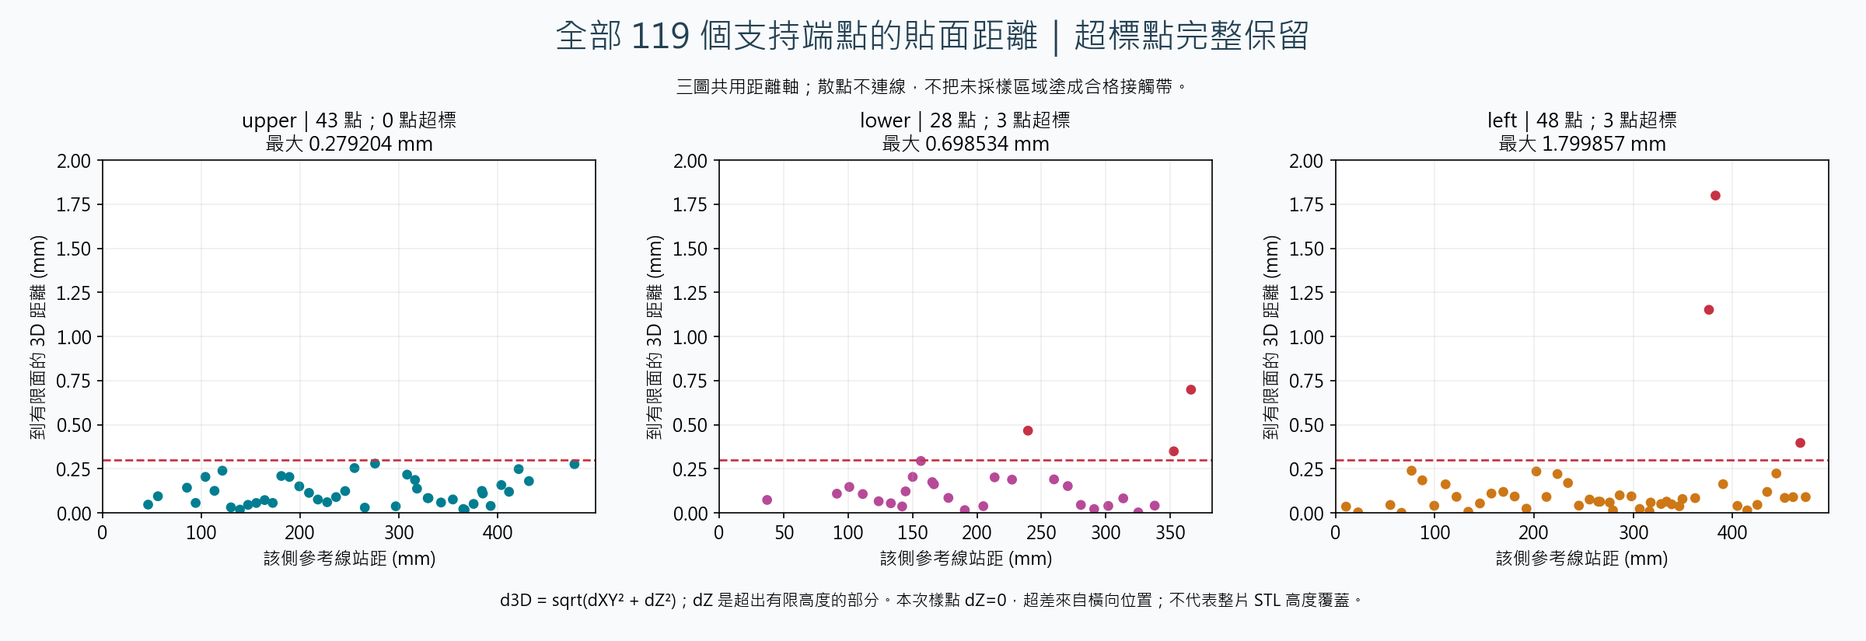
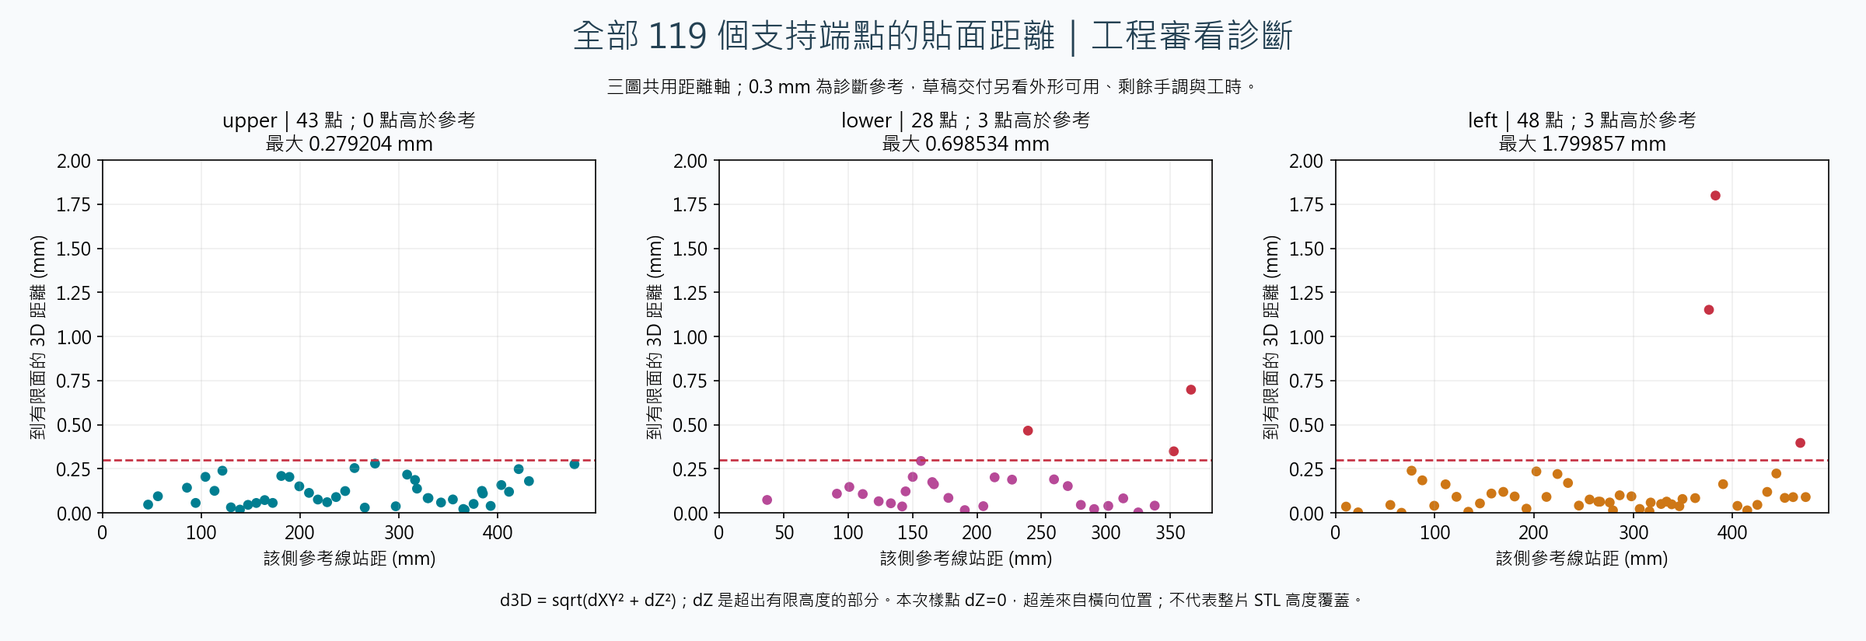
Prioritize engineering usefulness and manual effort in surface-draft delivery

diff --git a/tools/render_surface_contact.py b/tools/render_surface_contact.py
@@ -174,7 +174,7 @@ def main():
     fig.legend(handles=handles, loc="lower center", bbox_to_anchor=(.5, .065), ncol=5, frameon=False, fontsize=10)
     fig.suptitle("從掃描側線到貼面草稿｜原件與三側有限面疊合", fontsize=23, color="#244153", y=.96)
     fig.text(.5, .885, "原始孔洞／板金／焊道保持；彩面為同一 VSTA 已建面的計畫，Z = -50 … +50 mm。", ha="center", fontsize=12)
-    fig.text(.5, .025, "數據重繪，非 CATIA 螢幕擷取；同一座標、等尺度、無 Z 誇大。119 點僅為支持子域，製造貼合尚未通過。", ha="center", fontsize=11)
+    fig.text(.5, .025, "原件與已建面計畫同座標重繪；等尺度、無 Z 誇大。用於工程審看與局部微調，工時效益待量測。", ha="center", fontsize=11)
     fig.savefig(args.output/"case-a-surfaces.png", dpi=150); plt.close(fig)
 
     fig, axes = plt.subplots(2, 3, figsize=(16, 10), facecolor="#f8fafc")
@@ -199,7 +199,7 @@ def main():
         ax.scatter(0, 0, c="#15546a", s=45, zorder=5, label="原支持點 P")
         ax.scatter(x, q[2]-p[2], c=COLORS[key], marker="s", s=45, zorder=5, label="面上垂足 Q")
         ax.plot([-.7*span, -.7*span+.3], [-.72*span]*2, color=BAD, lw=3)
-        ax.text(-.7*span, -.72*span+.13*span, "0.3 mm 判準尺", fontsize=9, color=BAD)
+        ax.text(-.7*span, -.72*span+.13*span, "0.3 mm 參考尺", fontsize=9, color=BAD)
         ax.set_xlim(-span*.75, span*1.25); ax.set_ylim(-span, span)
         ax.set_aspect("equal"); ax.grid(alpha=.2)
         ax.set_xlabel("沿 P→Q 水平方向 (mm)"); ax.set_ylabel("相對 P 的 Z (mm)")
@@ -214,14 +214,14 @@ def main():
     fig.subplots_adjust(left=.055, right=.98, top=.75, bottom=.2, wspace=.25)
     for ax, summary in zip(axes, summaries):
         key = summary["id"]; values = probes[key]
-        ax.axhline(.3, color=BAD, ls="--", lw=1.3, label="0.3 mm 判準")
+        ax.axhline(.3, color=BAD, ls="--", lw=1.3, label="0.3 mm 診斷參考")
         ax.scatter([v["anchor"]["referenceStation"] for v in values], [v["distance"] for v in values],
                    c=[BAD if v["distance"] > .3 else COLORS[key] for v in values], s=26)
         ax.set_ylim(0, 2.0); ax.set_xlim(left=0); ax.grid(alpha=.2)
-        ax.set_title(f"{key}｜{summary['probes']} 點；{summary['overLimit']} 點超標\n最大 {summary['maximumMm']:.6f} mm", fontsize=12)
+        ax.set_title(f"{key}｜{summary['probes']} 點；{summary['overLimit']} 點高於參考\n最大 {summary['maximumMm']:.6f} mm", fontsize=12)
         ax.set_xlabel("該側參考線站距 (mm)"); ax.set_ylabel("到有限面的 3D 距離 (mm)")
-    fig.suptitle("全部 119 個支持端點的貼面距離｜超標點完整保留", fontsize=21, color="#244153", y=.97)
-    fig.text(.5, .855, "三圖共用距離軸；散點不連線，不把未採樣區域塗成合格接觸帶。", ha="center", fontsize=11)
+    fig.suptitle("全部 119 個支持端點的貼面距離｜工程審看診斷", fontsize=21, color="#244153", y=.97)
+    fig.text(.5, .855, "三圖共用距離軸；0.3 mm 為診斷參考，草稿交付另看外形可用、剩餘手調與工時。", ha="center", fontsize=11)
     max_height = max(s["maximumHeightGapMm"] for s in summaries)
     height_note = "本次樣點 dZ=0，超差來自橫向位置" if max_height == 0 else f"本次樣點最大 dZ={max_height:.6f} mm"
     fig.text(.5, .055, f"d3D = sqrt(dXY² + dZ²)；dZ 是超出有限高度的部分。{height_note}；不代表整片 STL 高度覆蓋。", ha="center", fontsize=10)
@@ -230,7 +230,8 @@ def main():
                for name in ("case-a-surfaces.png", "case-a-contact-detail.png", "case-a-contact-probes.png")]
     receipt = dict(schema="surface-contact-display/1", case=verified["case"], cadPlanSha256=verified["cadPlanSha256"],
                    meshSha256=manifest["mesh"]["sha256"], originalTriangles=count, zMin=plan["zMin"], zMax=plan["zMax"],
-                   thresholdMm=.3, comparisonToleranceMm=1e-7, measurement="analytic finite curves, independent closest points; display tessellation is not measured",
+                   thresholdMm=.3, thresholdRole="legacy contact diagnostic reference; not the engineering-draft delivery gate",
+                   comparisonToleranceMm=1e-7, measurement="analytic finite curves, independent closest points; display tessellation is not measured",
                    scope="119 original approximate engineering-anchor endpoints only; not a physically established contact band or full-STL Hausdorff distance",
                    imageKind="redrawn from unchanged private mesh and exact native-verified CAD plan; not a native viewport",
                    physicalContactAccepted=False, sides=summaries, figures=figures)

diff --git a/README.md b/README.md
@@ -2,11 +2,21 @@
 
 **C# 計算幾何** · **3DEXPERIENCE CATIA C#／VSTA Macro 開發、編輯與除錯**
 
-從含焊道起伏、孔洞、套筒及多重蓋壁的掃描，推導三側工程側線，建立**可編輯相切線弧 → 沿側邊延伸的貼面草稿**，供工程師檢查與微調。本版採原始第一號工件 **Case A**：保留外形與全部 342,369 個三角面，重切 83 個原剖框並核對來源支持。公司與產品名稱去識別；原始 STL／ASC、公司程式、原生 CAD 與完整日誌留在本機。
+**以減少工程師手動畫線、加約束與建面為目標：快速生成貼近主要外形、簡化難加工焊道細節的貼面草稿。** 從掃描推導三側工程側線，建立可編輯相切線弧與延伸面，供工程師審看、局部微調。本版採原始第一號工件 **Case A**：外形及全部 342,369 個三角面保持，重切 83 個原剖框並核對來源支持。公司與產品名稱去識別；原始檔、公司程式與完整日誌留本機。
 
 ![原始 Case A 與三側有限貼面草稿同座標疊合：兩個斜視呈現面的位置、高度，以及合格和超差的支持樣點](assets/case-a-surfaces.png)
 
 彩面取自**同一份已在 VSTA 建立三個有限延伸特徵的 CAD 計畫**，在未修改的掃描上重繪疊合；不是 CATIA 截圖。它們沿 Z = -50～+50 mm 延伸，供側邊貼面建模使用。[貼面完整案例：用途、建面、局部距離與限制](docs/surface-contact.md)
+
+**交付重點是外形可用、剩餘手調少、流程更快；精度作診斷，0.3 mm 不單獨決定專案成敗。** 已實跑自動建模；全區去焊道效果與實際節省工時仍需工程確認／對照。[工程草稿交付判準](docs/engineering-acceptance.md)
+
+| 工作 | 已實跑的自動處理 | 工程師仍需處理 |
+| --- | --- | --- |
+| 側線與來源核對 | 83 框重切、來源防護、三側衍生草稿 | 支持域、物理位置與範圍審查 |
+| 線弧與約束草圖 | 165 元件、405 有效約束、3 草圖 | 主要輪廓、焊道簡化與局部形狀確認 |
+| 延伸建面 | 3 個有限延伸特徵 | 微調及後續接續；剩餘修改量待記錄 |
+
+這些是自動完成的幾何工作量，尚未換算成省時百分比。
 
 | 入口 | 可以核對的內容 |
 | --- | --- |
@@ -24,22 +34,20 @@
 
 ## 可追溯的結果
 
-**建面成功與貼合精度分開驗證。** 下圖直接量原支持點 P 到有限面垂足 Q：上排是原件與面的局部，下排是同一位置的等尺度真實剖面；紅線是實距，沒有拉大縫隙。三側最差樣點為 F27／F63／F74。
-
-![三側貼面最差支持點：原工件與面局部、真實 STL 截線、垂足及 0.3 mm 判準尺](assets/case-a-contact-detail.png)
+幾何數據用來理解形狀與引導微調。原支持點 P 到有限面垂足 Q 的[局部剖面與實距](docs/surface-contact.md#局部看貼面差在哪裡)完整保留；三側最大距離位置為 F27／F63／F74。
 
 | 原始 Case A | upper | lower | left |
 | --- | ---: | ---: | ---: |
 | 基準 → 減段後元件 | 83 → 59 | 63 → 41 | 81 → 65 |
 | 取整後最大草稿 XY 偏差（mm） | 0.297692 | 0.294194 | 0.262203 |
 | 取整位移上界（mm） | 0.008787 | 0.004678 | 0.022314 |
-| 原支持端點到有限面最大距離（mm） | 0.279204 | **0.698534** | **1.799857** |
+| 原支持端點到有限面最大距離（mm，診斷） | 0.279204 | 0.698534 | 1.799857 |
 
-三側通過草稿 XY ≤ 0.3 mm、取整位移 ≤ 0.05 mm、端點／接點及 G1 ≤ 1e-7。總元件 227 → 165，是本次排程取得的可行精簡，未證全域最少。歷史版 129 段較少，但兩側草稿偏差超過 0.3 mm；同一份草稿的比較見[原件報告](docs/original-case.md#線弧與取整實測)。
+三側通過本版草稿 XY ≤ 0.3 mm、取整位移 ≤ 0.05 mm、端點／接點及 G1 ≤ 1e-7。總元件 227 → 165 是已測排程的精簡，未證全域最少。歷史版 129 段較少，兩側偏差高於舊 0.3 目標；工程上應比較細碎程度與剩餘手調，不能由較小誤差直接判定較省工。[兩版取捨](docs/engineering-acceptance.md#精簡程度與誤差的工程取捨) · [原件數據](docs/original-case.md#線弧與取整實測)
 
 同一數值程式已在 **Windows 與 Debian Linux 客體**實際建置、跑原件與獨立驗證；段數一致，已比較數值最大差4.72e-14mm，原始計畫檔不宣稱逐位元一致。[跨平台證據](docs/evidence/case-a-linux.json)
 
-**製造貼合尚未通過。** 上表三維距離只量 119 個原支持錨點，lower／left 各有 3 點超過 0.3 mm；不是完整 STL 的 Hausdorff 距離，也不是已確認實際接觸帶的驗收。這批點均在有限高度內，當前樣點超差來自橫向位置；不推論整片 STL 高度都已覆蓋。[全部樣點圖與貼面推導](docs/surface-contact.md#全部樣點與判準) · [完整驗收狀態](docs/verification.md) · [機器可讀彙總](docs/evidence/case-a-surface-contact.json)
+119 個支持錨點中，lower／left 各有 3 點高於舊 0.3 mm 接觸參考線，需按主要外形與焊道用途審看；這不等於整份工程草稿失敗。舊製造接觸狀態保留，沒有改成通過。這批點不是完整 STL 或全區焊道驗收；減少人工工作的效果也需另量。[全部樣點與解讀](docs/surface-contact.md#全部樣點與判準) · [分層驗收](docs/verification.md) · [實測彙總](docs/evidence/case-a-surface-contact.json)
 
 ## 快速開始
 
@@ -54,7 +62,7 @@ dotnet src/Cli/bin/Release/net10.0/Cli.dll source verify artifacts/reviewed-inpu
 dotnet src/Cli/bin/Release/net10.0/Cli.dll experiment run mixed-cover
 ```
 
-預期產生 **3/3 工程草稿側線**，每側 13 → 11 段，取整後 XY 最大約 0.137150 mm。`verify` 印出三側檢查與 `physicalContactAccepted: false`：解析測試件刻意保留此狀態，不藉它宣稱實物貼合。這份測試件走同一條新來源程式路徑，外形與原件不同。
+預期產生 **3/3 工程草稿側線**，每側 13 → 11 段，取整後 XY 最大約 0.137150 mm。`verify` 的 `physicalContactAccepted: false` 是製造接觸欄位，不是工程草稿可用性或省時的總評；測試件不被當作實物驗收。它走同一條新來源程式路徑，外形與原件不同。
 
 輸出有 `source-run.json`（原來源、衍生草稿、完整減段嘗試）、`run.json`（檢視器）、`overlay.svg` 與 `cad-plan.json`（Macro）。Windows 可用 `dotnet run --project src/Viewer -- artifacts/reviewed-output/run.json` 切換三側及查看未定框。 [欄位、原件本機重跑與排錯](docs/original-case.md#重跑與本機私有資料)
 
@@ -73,8 +81,8 @@ dotnet src/Cli/bin/Release/net10.0/Cli.dll experiment check-all
 歷史專案沿用既有插值與線弧數值核心；我的工作涵蓋來源追查、候選比較、凹折診斷、工程交付流程、WinForms 及 C# Macro 開發除錯。本庫提供獨立新寫的公開實作，區分歷史原生證據、新程式實測和工程人員的物理範圍確認，未量測的節省工時不填數字。 [貢獻分界](docs/project-history.md)
 
 - **中文**：開發 C#／WinForms 掃描至 CAD 流程，針對 83 個原始剖框建立支持來源核對及混蓋診斷，實作有限線弧、G1 相切、保公差減段與 0.01 mm 尺寸重建；三側草稿 XY 偏差均小於 0.3 mm。
-- **中文**：開發與除錯 3DEXPERIENCE CATIA C#／VSTA Macro，建立可編輯約束草圖、驗證原生幾何讀回，並以輸入指紋與草圖身分控制延伸面建模。
+- **中文**：開發與除錯 3DEXPERIENCE CATIA C#／VSTA Macro，自動建立 3 草圖、165 線弧、405 有效約束及 3 側貼面草稿，減少需手動建立的幾何工作，供工程師審看與局部微調；實際節省工時待量測。
 - **English**: Developed a C# / WinForms scan-to-CAD workflow with source-triangle provenance, finite tangent line–arc fitting, verified reduction, and tolerance-checked dimension rounding.
-- **English**: Developed and debugged 3DEXPERIENCE CATIA C# / VSTA macros for editable constrained sketches, native readback, and fingerprint-bound surface extrusion.
+- **English**: Automated three editable surface drafts with 165 line–arc elements and 405 valid constraints using CATIA C# / VSTA macros, with native readback and traceable geometry; labor-time savings remain to be measured.
 
 [驗收與限制](docs/verification.md) · **[原規劃查漏與未完成項目](docs/completeness-audit.md)** · [雙視角審查](docs/review-original-case.md) · [公開分界](docs/publication.md) · [實作實驗紀錄](EXPERIMENT_LOG.md) · [早期解析懸吊臂回歸案例](docs/suspension-arm.md)

diff --git a/docs/engineering-acceptance.md b/docs/engineering-acceptance.md
@@ -1,0 +1,72 @@
+# 工程貼面草稿的交付判準
+
+**目標是減少工程師手動工作與時間，快速生成貼近主要工件外形、略過難加工焊道起伏、方便局部微調的貼面草稿。** 精度提供偏差位置與修正依據，不以固定 0.3 mm 決定整個專案成敗。
+
+## 決策與適用範圍
+
+2026-11-06 使用者再次明確說明上述優先順序，延續 2026-10-23「允許近似與幾何推估、先交可微調線弧／貼面、減少工程師工時」的工程草稿目標。先前文件把嚴格接觸診斷提升成整體交付門檻，未充分反映這個用途，本次更正。
+
+這是**交付目標的調整紀錄**。既有原始資料、曲線、測試門檻及失敗結果均保留；沒有將舊數字改成通過，亦未據此宣稱已完成製造驗收。實際加工若另有關鍵尺寸或配合要求，應在對應部位另行確認。
+
+## 主要看四件事
+
+| 工程交付判準 | 如何判讀／記錄 | 目前證據 |
+| --- | --- | --- |
+| **少做手動建模** | 能否自動建立側線、約束草圖與面；工程師剩下哪些設定、確認及修改 | 已在 VSTA 實跑 3 草圖、165 線弧、405 有效約束、3 有限延伸特徵。支持域與部分範圍仍由既有資料／人工審查提供。 |
+| **主要外形可用，焊道細節可簡化** | 主要分支、肩部、端部範圍是否合適；是否避開不需要追隨的焊道凸起、局部折皺和密集小段 | [原件／貼面疊合](surface-contact.md)與[剖框](original-case.md)可審看；尚未有涵蓋全部焊道區域的工程確認。 |
+| **剩餘微調少，能接續操作** | 記錄需要改的區域、元件、操作與時間；是否需要整段重畫；能否完成手調後建面 | 草圖原生可編輯。公開的嚴格計畫流程尚缺手調後新幾何匯出／重新驗證；此操作缺口仍需處理。 |
+| **從開始到可用草稿更快** | 同一輸入與同一可用草稿標準，比較現行人工方法與輔助流程的總時間、人工投入及失敗重做 | 尚未完成同條件工時對照，不能填節省百分比。 |
+
+沒有在本次指定「節省幾成」「最多修幾段」等數字；未由工程用途決定的門檻不自行補上。已自動生成多少 CAD 幾何是實測事實，但不能直接換算成節省多少分鐘。
+
+工程師可以先依實際操作、主要外形及剩餘修改接受草稿，不必等完整計時研究才交付。若要在履歷寫節省時間或百分比，再以對照紀錄支持；不把新的量測表變成另一道僵硬門檻。
+
+## 精簡程度與誤差的工程取捨
+
+原件已有兩種已記錄草稿：
+
+| 版本 | 線弧元件 | 相對同一草稿的 XY 診斷（mm） | 現在如何解讀 |
+| --- | ---: | --- | --- |
+| 歷史工程版本 | 129 | 0.255364／0.340447／0.495341，取整前 | 部分側別高於舊 0.3 目標，仍可作較少元件的工程候選。 |
+| 本次公開重實作 | 165 | 0.296583／0.294134／0.258049，取整前 | 三側均在本版擬合目標內，元件較多；另有取整後驗證。 |
+
+兩版來源、演算法及原生證據各自保存。不能只因 129 較少就判定省時，也不能只因 165 的兩側誤差較小就判定更適合工程交付。應實際看細碎轉折、焊道避讓、需要修改的位置及工作量；沒有為這個新工程比較填造勝負。幾何技術的價值也包括知道何時保留細節、何時用少量可編輯元件表達主要輪廓。
+
+## 去焊道在這個流程中的意思
+
+保留原掃描作來源證據；**生成的工程面以主要輪廓為目標，不必逐一複製使加工困難的焊道凸起與細碎轉折**。這是衍生草稿的簡化用途，沒有修改或抹除原 STL。
+
+局部避開焊道後，對原焊道點的距離可能增加，因此「到所有原掃描點更近」不能單獨代表更好的工程草稿。仍需確認主要輪廓、肩部及端部沒有被錯誤削去、跨到其他分支，並將工程師接受／需修的區域標出。現有來源防護與線弧簡化提供基礎，尚未宣稱全自動辨識並移除所有焊道。
+
+## 精度與結構分開看
+
+| 項目 | 在目前交付中的角色 |
+| --- | --- |
+| 原支持點到面的距離、0.3 mm 參考線 | 診斷偏差與引導工程審看。超過參考線不自動否定整份可微調草稿，也不自動代表焊道已被正確避開。 |
+| 現行擬合 XY 0.3 mm、取整位移 0.05 mm | 本版演算法與回歸已使用的設定，本次不改程式；不是對所有後續工程情境宣告不可變的公差。 |
+| 有限線弧、合理方向、接點與 G1、約束有效 | 讓草圖／面可生成、可編輯、可預測的幾何結構檢查；精度次要不表示允許斷裂、反向弧或壞模型。 |
+| 來源指紋、正確 Part／草圖身分、原生讀回 | 確認程式處理的是預期幾何。讀回殘差描述轉接一致性，不是加工精度或省時證明。 |
+| 舊收據 `physicalContactAccepted: false` | 保留原接觸試驗狀態；不是新版「減少人工工作的草稿交付」總結論。 |
+
+## 工時與手動工作的對照紀錄
+
+先選同一工件、範圍、起始資料與可用草稿標準。人工組採工程師平常的方法，不刻意要求最慢的逐段描線；輔助組必須計入其實際需要的支持準備、設定、審看、修正、失敗與重做。若支持資料事先整理，這筆人工成本要明列，不能隱藏在計時之外。
+
+| 記錄欄位 | 現行人工流程 | C#／VSTA 輔助流程 |
+| --- | --- | --- |
+| 起始資料與處理範圍 | 待同條件記錄 | 待同條件記錄 |
+| 人工操作時間 | 未量測 | 未量測 |
+| 開始至工程師接受草稿的總經過時間 | 未量測 | 未量測 |
+| 設定、審看、手調與重做內容 | 未量測 | 未量測 |
+| 焊道困難區域的處理結果 | 待工程確認 | 待工程確認 |
+| 最終接受／需再修的部位及理由 | 待記錄 | 待記錄 |
+
+人工投入與總經過時間分開記錄，避免把無人值守的程式等待全算成人工，也避免忽略整體交付延遲。有同條件實測後，再計算人工工時減少率 `(人工流程投入 − 輔助流程投入) / 人工流程投入`，同時報告剩餘修改和失敗案例。
+
+## 目前可以怎麼描述成果
+
+**已實證**：以 C# 幾何與 CATIA VSTA，從既有支持資料自動生成可編輯線弧、約束及三側貼面草稿；幾何和原生讀回可追溯。
+
+**交付目的與待補證據**：減少手工描線、約束和建面操作，避開難加工焊道細節，讓工程師集中處理局部微調。全區焊道效果、剩餘手調量及「大幅省時」尚需工程確認／同條件量測，不以接觸距離或元件數代替。
+
+[目前證據](verification.md) · [貼面展示](surface-contact.md) · [操作缺口與後續工作](completeness-audit.md)

diff --git a/docs/surface-contact.md b/docs/surface-contact.md
@@ -1,8 +1,8 @@
 # 從去焊道側線到有限貼面草稿
 
-這個專案要交給工程師的成果包含**沿板金側邊建立的可編輯貼面草稿**。取線、判讀剖框與線弧擬合是前置工作；最後要確認的是面在原件哪裡、是否涵蓋需要的高度，以及原支持到面的偏差。這頁把三者放在同一組圖中。
+這個專案要交給工程師的是**沿板金側邊建立的可編輯貼面草稿，減少人工描線與建面，並以簡化難加工焊道細節為目標**。主要看輪廓是否可用、需改多少、流程是否省時；面的位置、高度與距離用來引導工程審看。
 
-目前已完成原生建面與幾何讀回；**製造貼合未通過，實際接觸帶尚未物理固定**。本輪只修正展示，沒有修改原件、線弧、延伸高度或接受門檻。
+目前已實跑原生建面與幾何讀回，焊道區域的工程接受、剩餘手調及工時對照仍待補。**0.3 mm 是既有接觸診斷參考，不是工程草稿的唯一成敗門檻。** 舊製造接觸結果保留，不改寫成通過。[現行交付判準](engineering-acceptance.md)
 
 ## 面貼在哪裡，解決什麼問題
 
@@ -12,7 +12,7 @@
 
 含焊道的原始外緣不能直接被視為理想建模邊界，剖框也可能選到不同蓋。流程先保存原交線、來源面與缺口，再用已歸檔支持域和審查決策產生近似錨點與明示推估的側線；以有限直線／圓弧減少 CAD 編輯元件，建立有端點、相切和半徑約束的草圖，最後延伸成面。用途是縮短工程師建立草稿的路徑；尚未實測節省工時。
 
-這些面沿側邊延伸，並非整片沖壓鈑金外表面的自由曲面重建，也沒有抹掉原焊道。較寬蓋、正確物理壁與圓角後第一點仍有未定與人工審查範圍；不能由圖片倒推為全自動焊道分類成功。[原件難例與來源邊界](original-case.md#來源與未定狀態)
+這些面沿側邊延伸；原掃描的焊道保留作對照，工程面則不要求逐一複製會增加加工困難的凸起和細碎轉折。是否避開了正確區域仍需工程確認。較寬蓋、物理壁與圓角後首點有未定與人工審查範圍；不能由圖片倒推全自動焊道分類已成功。[原件難例與來源邊界](original-case.md#來源與未定狀態)
 
 ## 線如何變成面
 
@@ -39,7 +39,7 @@ Qz  = clamp(Pz, zMin, zMax)
 
 ![三側最差原支持點與最近有限面，局部和真實法向截面](../assets/case-a-contact-detail.png)
 
-上排窗口各為 24×24 mm 的等尺度投影。下排剖面通過原支持點 P、面上最近點 Q 及 Z 方向，灰線由原始 STL 三角面重新求交；彩色豎線是該垂足處的有限面截線，紅線長度就是量到的縫隙。下排局部範圍依側別不同，坐標軸及 0.3 mm 判準尺均明示；每個窗口的水平／垂直比例相同。這些法向診斷剖面與原本 Fxx 的採樣剖框不是同一個切面。
+上排窗口各為 24×24 mm 的等尺度投影。下排剖面通過原支持點 P、面上最近點 Q 及 Z 方向，灰線由原始 STL 三角面重新求交；彩色豎線是該垂足處的有限面截線，紅線長度就是量到的縫隙。下排局部範圍依側別不同，坐標軸及 0.3 mm 參考尺均明示；每個窗口的水平／垂直比例相同。這些法向診斷剖面與原本 Fxx 的採樣剖框不是同一個切面。
 
 顯示用弧面以弦高不超過 0.02 mm 的小片繪製，影像排序仍是示意渲染；**量測使用解析有限線弧**，不拿顯示三角片當驗收面。支持點與垂足為前景標記，判讀真實縫隙以解析數字和下排截線為準。
 
@@ -47,15 +47,15 @@ Qz  = clamp(Pz, zMin, zMax)
 
 ![全部 119 個原支持端點到有限面的距離，三側共用距離尺度](../assets/case-a-contact-probes.png)
 
-判準是本次**原支持錨點子域**的最大有限面距離 ≤0.3 mm。獨立 Python 垂足計算與既有 C# 最大值的差不超過 7.9e-15 mm，小於事先訂定的核對界 1e-7 mm；沒有重擬合或調整門檻。
+本表保留原試驗對**原支持錨點子域**採用的 0.3 mm 距離參考；在現行工程草稿交付中，它提供偏差位置，不作整個專案的成敗結論。獨立 Python 垂足計算與既有 C# 最大值的差不超過 7.9e-15 mm，小於核對界 1e-7 mm；數字沒有因目標調整而改寫。
 
-| 側別 | 原支持點數 | 超過 0.3 mm | 最大距離（mm） | 最差框 | 子域判準 |
+| 側別 | 原支持點數 | 高於 0.3 mm 參考 | 最大距離（mm） | 最差框 | 診斷 |
 | --- | ---: | ---: | ---: | --- | --- |
-| upper | 43 | 0 | 0.279204 | F27 | 本次樣點範圍內通過 |
-| lower | 28 | 3 | 0.698534 | F63 | 未通過 |
-| left | 48 | 3 | 1.799857 | F74 | 未通過 |
+| upper | 43 | 0 | 0.279204 | F27 | 本次樣點均在參考內 |
+| lower | 28 | 3 | 0.698534 | F63 | 局部供工程審看 |
+| left | 48 | 3 | 1.799857 | F74 | 局部供工程審看 |
 
-這 119 點均在 Z[-50,50]，所以這批樣點的 dZ=0，超差是橫向側線偏離。這項實測只描述這批點，**不代表全部原板金或焊道皆有高度覆蓋**。修正橫向側線之前，仍須固定實際接觸帶；不能因 113 點在限內，就將未取樣區域塗成合格面。
+這 119 點均在 Z[-50,50]，所以這批樣點的 dZ=0，偏差來自橫向位置。這只描述這批點，**不代表全部板金或焊道皆有高度覆蓋**。工程審看應判斷主要輪廓、需避開的焊道及剩餘修改；若另做精密接觸驗收，再固定對應接觸帶與公差。不能將未取樣區域直接標成已接受。
 
 歷史另一版原生面對較完整原壁支持端點的最大值為 0.664812／1.074918／1.843587 mm，也未過 0.3；幾何版次和樣點域不同，不能用這張表計算改善百分比。[驗收分層](verification.md) · [本次彙總](evidence/case-a-surface-contact.json)
 

diff --git a/docs/completeness-audit.md b/docs/completeness-audit.md
@@ -2,6 +2,8 @@
 
 這次以原規劃逐項核對目前文件、程式、圖與收據。**作品集可閱讀、部分流程已實跑，不等於原產學專案全部功能與工程驗收都完成。** 下表的「已覆蓋」只指列出的範圍，不是所有程式無錯的證明；不再用自評 9/10 代替完整性檢查。
 
+**2026-11-06 目標更正**：主要驗收是減少工程師手動工作與時間、快速提供可微調的主要輪廓／去焊道貼面草稿。先前將 0.3 mm 接觸診斷排在一切之前，偏離了工程用途。以下優先序按[現行交付判準](engineering-acceptance.md)更新，既有數據與未完成操作仍保留。
+
 ## 本輪查到並修正
 
 | 問題 | 修正 | 實際核對 |
@@ -18,8 +20,8 @@
 | --- | --- | --- |
 | 首頁辨認兩項專長、原件困難及貼面用途 | 已覆蓋 | [首頁](../README.md)、[貼面](surface-contact.md)、[原件剖框](original-case.md)。 |
 | C# 剖切、來源、弧長、G1、有限距離、減段與尺寸重建 | 已覆蓋已測範圍 | [推導及程式](source-geometry.md)、[數學與來源控制](../tests/GeometryChecks/Program.cs)、[原件數據](evidence/case-a-geometry.json)。沒有連續雙向 Hausdorff／全域最少證書。 |
-| 正確物理蓋壁、圓角結束後首點與完整去焊道 | 部分完成 | 原件仍用歸檔支持域及人工審查；60 候選、7 排除、16 未定。近似錨點不等於已認證物理首點。 |
-| 原件與有限貼面、偏差位置 | 展示已補；工程未過 | 同座標重繪、真實法向剖面與 119 點距離齊備；完整接觸域與製造驗收仍缺。 |
+| 蓋壁／首點的精確物理分類 | 進階診斷部分完成 | 歸檔支持域及人工審查得到60候選、7排除、16未定；近似錨點不等於精確首點。工程草稿不要求先證唯一圓角首點才可交付，去焊道用途以工程審看另核。 |
+| 原件與有限貼面、偏差位置 | 自動生成／展示已實證 | 疊合、真實法向剖面與 119 點距離齊備；去焊道區域的工程接受與剩餘微調待核。完整精密接觸驗收是另一範圍。 |
 | VSTA 建立／編輯來源、編譯、F5、除錯、約束及讀回 | 已覆蓋當次計畫 | [手冊](macro.md)、[原件宿主收據](evidence/case-a-vsta.json)。有有效約束，不代表全自由度鎖定。 |
 | 工程師手調草圖後，再用延伸 Macro 接續 | 公開流程尚未閉環 | 手調後會與原計畫不符；尚無原生手調草圖→新計畫／新驗證收據的匯出器。不能沿用舊成功收據。 |
 | 原生 CATIA 中同場看到原 STL 與貼面 | 尚缺此原生展示證據 | 當次新 Part 未匯入 STL；現有疊合為數據重繪，原生圖只顯示延伸特徵。PLM 保存亦未確認。 |
@@ -32,10 +34,10 @@
 
 ## 後續優先順序
 
-1. **工程正確性**：先由工程人員固定實際接觸帶與接受範圍，再處理橫向側線偏差。目前 lower／left 最大樣點距離 0.698534／1.799857 mm，超過 0.3，不能用補圖取代修正與重驗。
-2. **操作閉環**：明確定義手調後的新幾何身分、計畫及驗證流程，再實作並原生驗證；不可跳過目前指紋／讀回防護。完整 GUI 匯入重建另有工作量。
-3. **歷史完整性**：建立僅留本機的原程式清冊，人工判讀獨立方法、參數變體及證據；公開通用 ID 對應、狀態及經確認原因，不發布公司原檔。
-4. **展示與效益**：在獨立測試 Part 補原生掃描／面同場檢視與保存重開證據；工時改善要同條件對照後才能量化。
-5. **發布條件**：作者決定程式授權；持續保留原件資料不公開的重現限制。
+1. **工程可用與去焊道審看**：確認主要輪廓、肩部、端部範圍，以及難加工焊道是否被適當略過；標記工程師實際需要改的部位。lower／left 的 0.698534／1.799857 mm 是診斷資訊，不單獨否定可微調草稿。
+2. **減少人工與接續操作**：補手調後的新幾何身分／驗證及建面接續，避免工程師重新畫整段。保持指紋及正確模型防護，完整 GUI 匯入重建可另改善操作成本。
+3. **量測真正效益**：同工件、同起始資料、同可用草稿標準，比較人工投入、總經過時間、剩餘微調及失敗重做；把支持準備成本算入，不以元件數直接推算省時。
+4. **歷史與展示完整性**：建立本機原程式清冊與去識別方法對應；補原生掃描／面同場及保存重開證據。原檔不公開。
+5. **另行需求**：若有精密製造接觸要求，再確認接觸帶與對應公差。作者決定程式授權；持續保留私有資料的重現限制。
 
 本輪沒有新增幾何判定方法、修改原 STL、重跑 VSTA 或改寫舊原生收據。以上未完成項目是可追蹤的後續工作；沒有填成已通過，也沒有依自評分數刪除。

diff --git a/docs/verification.md b/docs/verification.md
@@ -2,11 +2,21 @@
 
 首頁主案例已改為未修改的原始 **Case A**。原始檔留本機，公開彙總見 [case-a-geometry.json](evidence/case-a-geometry.json)，完整判準與取樣域見[原件報告](original-case.md)。
 
+**2026-11-06 現行交付目標：減少工程師手動工作與時間，生成貼近主要外形、可簡化難加工焊道細節的可微調貼面草稿。** 精度是診斷資訊，舊 0.3 mm 接觸標準不單獨決定整個專案成敗。[工程交付判準與工時紀錄方式](engineering-acceptance.md)
+
+| 工程交付層 | 已有證據 | 還需核對 |
+| --- | --- | --- |
+| 自動建模工作 | VSTA 已建立 3 草圖、165 線弧、405 有效約束、3 有限面 | 支持準備、設定與審查仍有人工投入，不是全流程無人操作。 |
+| 主要外形與焊道簡化 | 可重繪疊合、看來源與衍生點，草圖原生可編輯 | 工程師確認焊道困難區域處理與剩餘修改量。沒有宣稱全區焊道已自動剔除。 |
+| 接續與省時 | 建置、生成、讀回與建面有實跑證據 | 手調後重新驗證／接續的公開流程及同條件工時對照仍待補。 |
+
+目前可確認自動草稿生成已實跑；尚不能宣稱已量到「大幅省時」或所有區域已被工程師接受。這兩點也不由接觸距離的單一數字代替。
+
 ![原始工件與三側有限面同座標疊合，包含超差支持樣點](../assets/case-a-surfaces.png)
 
 貼面位置、三側最差點的真實法向剖面與全部 119 點距離見[貼面案例](surface-contact.md)。這是同一已驗證計畫的重繪疊合；下方原生視埠另列，兩種影像來源不混用。本輪補圖未改任何幾何或貼合狀態。
 
-## 原始 Case A 本次驗收
+## 原始 Case A 的數值、結構與原生證據
 
 | 層次 | 判準 → 實測 → 適用範圍 |
 | --- | --- |
@@ -15,11 +25,11 @@
 | 有限線弧 | 全部原草稿點與0.5mm等分點各≤0.3 → 取整後0.297692／0.294194／0.262203 mm。獨立有限距離重算。 |
 | 實際尺寸取整 | 線長／半徑0.01mm，位移界≤0.05 → 0.008787／0.004678／0.022314 mm；解析曲線位移上界。 |
 | 端點與G1 | 首尾／接點≤1e-7mm、單位切向差≤1e-7 → 最大首尾1.35e-13mm、接點0、切向6.84e-14。 |
-| 原始支持錨點子域接觸 | ≤0.3mm → 0.279204／0.698534／1.799857mm，**後兩側未過**。不是完整STL或已確認接觸帶。 |
+| 原始支持錨點子域接觸診斷 | 舊0.3mm參考 → 0.279204／0.698534／1.799857mm，後兩側有高於參考的點。供工程審看，不是草稿交付的總門檻；不是完整STL或已確認接觸帶。 |
 | 新版原件 VSTA | 新獨立庫在編輯器建置／F5實跑；同一計畫SHA，3草圖、165有限元件、405有效約束、3個Z±50mm有限面。最大原生殘差8.952838470577262e-13mm≤1e-7。見[當次收據](evidence/case-a-vsta.json)。 |
 | Windows | CLI／Viewer零警告建置；新來源與數學控制、既有7案、6個懸吊臂回歸、STL解析與25反例通過。原件三側Viewer實際開檔／繪圖。 |
 | Linux | Debian12／Linux6.1／.NET10.0.403的QEMU客體完成本機原件建置、三側線弧及獨立重播驗證，exit0。數值核心來源指紋與Windows相同，已比較指標最大差4.72e-14mm。另完成數學／來源／STL／7案及25反例。[Linux收據](evidence/case-a-linux.json) |
-| 製造貼合 | **未通過／接觸帶未物理固定**。CAD建面與數值草稿成功不改變此狀態。 |
+| 另行製造貼合狀態 | 舊試驗未通過，接觸帶未物理固定；狀態保留。本次工程草稿以可用外形、剩餘手調及工時為主要判讀，不以前置通過完整製造貼合阻擋審看。 |
 
 本次公開解析 fixture 與原件不同，兩者使用同一新程式。fixture有66框／3審查排除／126支持端點，每側13→11段，取整XY最大0.137150mm；它刻意保留不合格的原支持接觸，避免把測試件當實物驗收。
 

diff --git a/EXPERIMENT_LOG.md b/EXPERIMENT_LOG.md
@@ -99,3 +99,12 @@ This log tracks implementation changes; measured original-case results are separ
 - Updated current source dataflow/output schema, old-versus-current native status and old Macro receipt wording. Added a requirement/evidence matrix rather than claiming all work complete based on self-review scores.
 - Real remaining work: physical contact band and failing transverse offsets, manual-native-edit to revalidated-plan loop, native mesh/surface co-display and persistence evidence, full historical-source mapping, GUI import/rebuild, measured labor benefit and an author-chosen license. No data or results invented to fill these gaps.
 - Reopened all3 original Case A sides with the rebuilt Viewer and re-submitted the exact baseline null-anchor report: valid sides painted, the old bad file now rejected before painting. Current geometry/native/image bindings and44 Markdown pages/322 relative links passed; Core/Cli/Macro have no diff.
+
+## 2026-11-06 — Restore the engineer-assisted surface-draft objective
+
+- User clarified that acceptance prioritizes substantially reducing manual work/time and quickly generating usable main-outline surface drafts, especially simplifying weld details that are difficult to machine. Precision is secondary. The recorded2026-10-23 scope already allowed approximation/inference and engineer adjustment; previous summaries incorrectly elevated a strict contact diagnostic to the overall delivery gate.
+- Policy change recorded before edits: delivery is assessed by useful shape/weld treatment, remaining manual adjustment, workflow continuity and time/effort. Existing0.3mm diagnostics, algorithm regression thresholds, native results and original files remain unchanged. No new fitting method or native execution.
+- README/report now lead with demonstrated automatic work:3 sketches,165 line/arc elements,405 valid constraints and3 finite extrusions. These counts do not establish a labor-time percentage or complete automatic weld removal.
+- Added an engineering acceptance decision and an unfilled same-condition effort/time comparison record. Include support preparation, review, edits and failure/rework; use engineers' usual manual baseline rather than an artificially slow method. No timing values or savings fabricated.
+- Diagram labels distinguish a0.3mm reference from overall acceptance. Existing source-anchor maxima and prior physicalContactAccepted=false remain recorded. Future priority is engineer usability/weld review and manual-edit continuity, with precision contact certification reserved for a separately defined need.
+- Re-rendered the3 surface diagnostic figures and compared every sampled metric, input/plan identity, height interval and old contact flag against the pre-change receipt: unchanged. Current numerical/native bindings and11finite-foot/3invalid-input controls pass;45Markdown pages/336relative links have0errors. Public candidate audit126files passes; Core/Cli/Viewer/Macro/tests have no diff.

diff --git a/docs/project-history.md b/docs/project-history.md
@@ -8,7 +8,8 @@
 | 2026-10-23 | 交付目標轉為可供工程師手調的線弧草稿，明示允許幾何推估。歷史插值與數值核沿用。 | 推估沒有改成實測點。 |
 | 2026-10-24 | 另一件的局部凹折追到完整支持重用，加入來源矛盾防護並作單錨點對照。 | 不把局部凹折消失說成整體貼合合格。 |
 | 2026-10-28 | Case A 範圍確認 lower 370／left 480，歷史原生三草圖／三面成功。 | 歷史兩側草稿 XY 超 0.3，原支持三維接觸也未過。 |
-| 本次公開重實作 | 原 STL 不變，83 框來源核對，草稿對照歷史一致；新一般線弧 227 → 165 段，三側取整 XY 均過 0.3。 | 歷史 129 段較少，未證全域最少；製造貼合仍未通過。 |
+| 本次公開重實作 | 原 STL 不變，83 框來源核對，草稿對照歷史一致；新一般線弧 227 → 165 段，三側取整 XY 均過 0.3。 | 歷史 129 段較少，未證全域最少；焊道區域工程接受與工時待核。 |
+| 2026-11-06 | 再次確認交付以減少工程師人工／時間、主要外形貼面與難加工焊道簡化為主；0.3 接觸值作診斷。 | 不將舊接觸失敗改寫成通過，不填造節省工時；操作接續與效益仍需實證。 |
 
 原件新數據、程式與判準集中在 [Case A](original-case.md)。下表保留工作階段脈絡；「舊取整版停在參考 Part」是歷史特定輸入狀態，不能套到另一版已原生建面的幾何。
 
@@ -26,6 +27,6 @@
 - **我的開發工作**集中在掃描至 CAD 交界的流程串接、來源追查、候選與異常案例對照、線弧草稿驗證、操作員介面與 Macro 開發除錯。作品集逐案附上可讀程式及合成重現。
 - **沿用的技術**包括專案原有的插值、取樣和線弧數值核心，以及既有 CAD Automation API。歷史回歸以同版核心做對照，公開示範則用獨立撰寫的核心重現工程概念。
 - **工程確認**涵蓋實物位置、套筒排除範圍、板金肩部、候選點及製造驗收。各種確認各有範圍。履歷只引用程式建置、數值檢查、原生結果及其他能追溯的工作。
-- **效率改善**從操作步驟、可接續性和減少可編輯段數說明。實際節省工時待量測。
+- **效率改善**是主要工程目標，以自動完成的工作、剩餘手調與操作接續說明。實際節省工時要計入準備、審看及重做後量測；元件數不能直接換算工時。[工程交付判準](engineering-acceptance.md)
 
 公開版程式重實作與文件整理包含 AI 協作。歷史個人開發、沿用數值核、工程人員的物理確認，以及本次公開重寫的工作分開記錄；履歷貢獻不以新庫檔案數替代歷史作者證據，面試應能沿程式解釋每個接受／拒絕判準。

diff --git a/docs/review-original-case.md b/docs/review-original-case.md
@@ -6,6 +6,8 @@
 
 後續逐項查漏又發現範例路徑、Viewer 階段標籤與壞報告開檔缺陷，已實際修正。現以[原規劃對照表](completeness-audit.md)列出證據及真正尚缺部分；下方歷史分數不作「沒有其他遺漏」的結論。
 
+2026-11-06 使用者重申工程草稿以**減少人工與時間、主要輪廓可用、簡化難加工焊道**為重點。先前審查把嚴格接觸診斷當作總門檻，未反映此用途。後續應看剩餘手調、操作接續與同條件工時，不只數精度通過項目；舊分數及數值保留為歷史。[現行判準](engineering-acceptance.md)
+
 ## 初版問題與已做修正
 
 | 卡點 | 修正 | 查核 |
